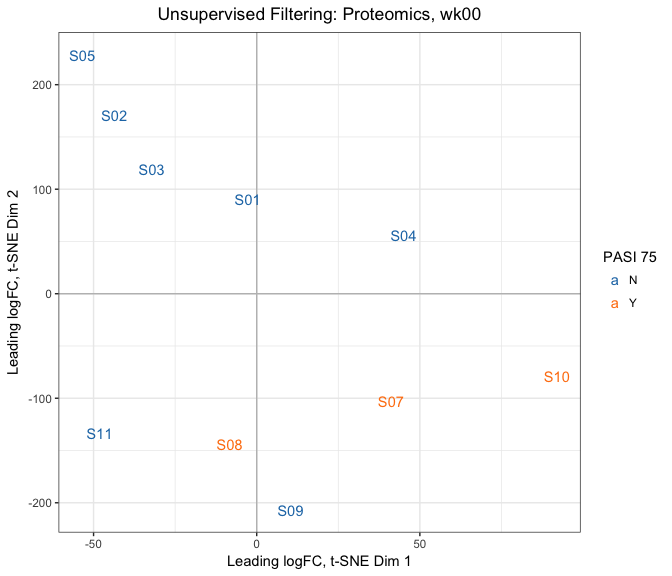
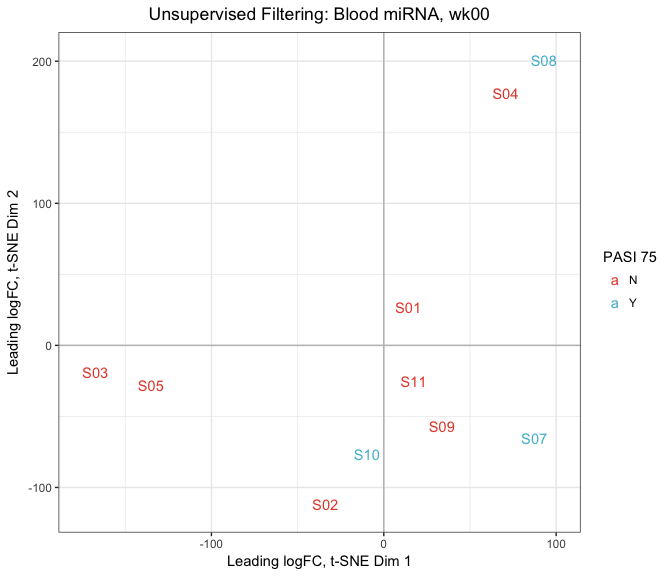
clust update

diff --git a/Scripts/Clusters.md b/Scripts/Clusters.md
@@ -9,7 +9,7 @@ Clusters
 -   [Mutual Information](#mutual-information)
 -   [Heatmap](#heatmap)
 
-All analysis was conducted in R version 3.3.3 using the following script. Computations were performed on a MacBook Pro with 16GB of RAM.
+All analysis was conducted in R version 3.4.0 using the following script. Computations were performed on a MacBook Pro with 16GB of RAM and an i7 quad-core processor.
 
 If you haven't already installed the `bioplotr` package, you'll need to do so to reproduce some of the figures below.
 
@@ -18,15 +18,12 @@ If you haven't already installed the `bioplotr` package, you'll need to do so to
 devtools::install_github('dswatson/bioplotr')
 
 # Load libraries, set seed
-library(data.table)
-library(bioplotr)
 library(limma)
+library(edgeR)
+library(bioplotr)
 library(Rtsne)
 library(cluster)
 library(infotheo)
-library(RColorBrewer)
-library(ggsci)
-library(NMF)
 library(dplyr)
 set.seed(123)
 ```
@@ -34,26 +31,26 @@ set.seed(123)
 Overview
 ========
 
-Once data have been modelled (see [Response]()), we use the outputs of our differential expression analysis to perform supervised and unsupervised clustering on baseline samples in each tissue across all platforms. Our approach is as follows. First, we filter out the bottom half of probes, either by association with biologic response (if supervised) or by leading fold change (if unsupervised). Next, we project the data in two dimensions using *t*-distributed stochastic neighbour embedding (t-SNE) ([van der Maaten & Hinton, 2008](http://www.jmlr.org/papers/volume9/vandermaaten08a/vandermaaten08a.pdf)). Finally, we cluster the samples using *k*-medoids, also known as the PAM algorithm ([Kaufman & Rousseeuw, 1990](https://books.google.co.uk/books/about/Finding_Groups_in_Data.html?id=yS0nAQAAIAAJ)).
+Once data have been modelled (see [Response](https://github.com/dswatson/PSORT/blob/master/Scripts/Response.md)), we use the outputs of our differential expression analysis to perform supervised and unsupervised clustering on baseline samples in each tissue across all platforms. Our approach is as follows. First, we filter out the bottom half of probes, either by association with biologic response (if supervised) or by leading fold change (if unsupervised). Next, we project the data in two dimensions using *t*-distributed stochastic neighbour embedding (t-SNE) ([van der Maaten & Hinton, 2008](http://www.jmlr.org/papers/volume9/vandermaaten08a/vandermaaten08a.pdf)). Finally, we cluster the samples using *k*-medoids, also known as the PAM algorithm ([Kaufman & Rousseeuw, 1990](https://books.google.co.uk/books/about/Finding_Groups_in_Data.html?id=yS0nAQAAIAAJ)).
 
-Ideally, optimal cluster number *k* would be established via a resampling procedure such as consensus clustering ([Monti et al., 2003](https://pdfs.semanticscholar.org/1f29/553ecbaa388b6be3402bc7af28178f5e24ef.pdf)). However, given our limited sample size, we chose to fix *k* = 2 and test for cluster concordance with clinical outcomes. For simplicity's sake, we will work through a single example here. A complete analysis loop that executes all clustering steps in parallel may be found in this repository's accompanying Clusters.R script.
+Ideally, optimal cluster number *k* would be established via a resampling procedure such as consensus clustering ([Monti et al., 2003](https://pdfs.semanticscholar.org/1f29/553ecbaa388b6be3402bc7af28178f5e24ef.pdf)). However, given our limited sample size, we choose to fix *k* = 2 and test for cluster concordance with clinical outcomes. For simplicity's sake, we work through a single example here using baseline blood miRNA data. A complete analysis loop that executes all clustering steps in parallel may be found in this repository's accompanying [Clusters.R](https://github.com/dswatson/PSORT/blob/master/Scripts/Clusters.R) script.
 
 Load, Prepare Data
 ==================
 
 ``` r
 # Import data
-mat <- readRDS('./Data/mat_prot.rds')            # Voom transformed counts
-fit <- readRDS('./Data/fit_prot.rds')            # Limma model object
-clin <- read.csv('./Data/Clinical.csv') %>%      # Clinical data
-  distinct(Subject, DeltaPASI, PASI_75)
+mat <- readRDS('./Data/miRNA_RawCounts.rds')     # Raw miRNA counts
+clin <- read.csv('./Data/Clin_Baseline.csv')     # Clinical data
 
-# Restrict focus to baseline samples
-mat <- mat[, grep('wk00', colnames(mat))]
+# Restrict focus to baseline blood samples
+mat <- mat[, grepl('wk00', colnames(mat))]
 colnames(mat) <- gsub('_wk00', '', colnames(mat))
 
-# Median centre the data
-mat <- sweep(mat, 1, apply(mat, 1, median))
+# Remove underexpressed probes, normalize matrix
+keep <- rowSums(cpm(mat) > 1) >= 3
+mat <- DGEList(mat[keep, ])
+mat <- calcNormFactors(mat)
 
 # Restrict focus to top half of probes
 n_probes <- round(0.5 * nrow(mat))
@@ -62,23 +59,49 @@ n_probes <- round(0.5 * nrow(mat))
 Filtering
 =========
 
-This is where supervised and unsupervised approaches diverge. For the former, we simply take the top half of all probes as ranked by *p*-value of the relevant differential expression test.
+This is where supervised and unsupervised approaches diverge. For the former, we simply take the top half of all probes as ranked by *p*-value of the relevant differential expression test. To recreate our [Response](https://github.com/dswatson/PSORT/blob/master/Scripts/Response.md) analysis, we winsorise the DeltaPASI distribution and regress it onto probewise counts following voom transformation [Law et al., 2014](https://genomebiology.biomedcentral.com/articles/10.1186/gb-2014-15-2-r29).
 
 ``` r
-top <- topTable(fit, coef = 'wk00.Response', number = Inf, sort.by = 'p')
-hits <- rownames(top)[seq_len(n_probes)]
+# Winsorise DeltaPASI distribution
+winsorise <- function(x, multiple = 2) {
+  y <- x - median(x)
+  lim <- mad(y, center = 0) * multiple
+  y[y > lim] <- lim
+  y[y < -lim] <- -lim
+  y <- y + median(x)
+  return(y)
+}
+clin <- clin %>% mutate(DeltaPASI = winsorise(DeltaPASI))
+
+# Build limma model
+des <- model.matrix(~ DeltaPASI, data = clin)
+v <- voom(mat, des)
+fit <- eBayes(lmFit(v, des))
+
+# Extract top half of probes by differential expression
+top <- topTable(fit, coef = 'DeltaPASI', number = n_probes, sort.by = 'p')
+hits <- rownames(top)
+```
+
+Distance matrices should be calculated based on centred data so as to emphasise relative differences across samples. We therefore subtract the median of each probe's samplewise distribution from all rows of the voom transformed counts.
+
+``` r
+# Median centre data
+mat <- sweep(v$E, 1, apply(v$E, 1, median))
+
+# Create supervised distance matrix
 dm_sup <- dist(t(mat[hits, ]))
 ```
 
-For unsupervised filtering, we use the leading log fold change method originally developed by the authors of the `limma` package to aid in multidimensional scaling plots ([Ritchie et al., 2015](https://www.ncbi.nlm.nih.gov/pubmed/25605792)). The key insight to this approach is that distance matrices need not be calculated using the same data for all comparisons. Instead, each pairwise distance may be based on the probes for which those two samples most differ. While the `limma` authors employ this method in conjunction with root-mean-square distance, we adopt the Euclidean distance metric here. In fact, the leading fold change filter is a powerful and general tool that can be applied with any distance measure.
+For unsupervised filtering, we use the leading log fold change method originally developed by the authors of the `limma` package to aid in multidimensional scaling plots ([Ritchie et al., 2015](https://www.ncbi.nlm.nih.gov/pubmed/25605792)). The key insight to this approach is that distance matrices need not be calculated using the same data for all comparisons. Instead, each pairwise distance may be based on the probes for which those two samples most differ. While the `limma` authors employ this method in conjunction with root-mean-square deviation, we adopt the Euclidean distance metric here. In fact, the leading fold change filter is a powerful and general tool that can be applied with any distance measure.
 
 ``` r
-# Create distance matrix
+# Create unsupervised distance matrix
 dm_unsup <- matrix(nrow = ncol(mat), ncol = ncol(mat))
 for (i in 2:ncol(mat)) {
   for (j in 1:(i - 1)) {
     # Find top most differentially expressed genes between samples i and j
-    hits <- order((mat[, i] - mat[, j])^2, decreasing = TRUE)[1:n_probes]
+    hits <- order((mat[, i] - mat[, j])^2, decreasing = TRUE)[seq_len(n_probes)]
     # Calculate the Euclidean distance between i and j using just those top genes
     dm_unsup[i, j] <- sqrt(sum((mat[hits, i] - mat[hits, j])^2))
   }
@@ -88,12 +111,12 @@ for (i in 2:ncol(mat)) {
 t-SNE
 =====
 
-We now perform t-SNE on the distance matrix. This algorithm embeds a high-dimensional manifold in just two dimensions with a focus on preserving local structure, which makes it especially attractive for clustering omic data. We can visualise the projection using the `plot_tsne` function from the `bioplotr` package.
+We now perform t-SNE on the respective distance matrices. This algorithm embeds a high-dimensional manifold in just two dimensions with a focus on preserving local structure, which makes it especially attractive for clustering omic data. We can visualise the projection using the `plot_tsne` function from the `bioplotr` package.
 
 ``` r
-plot_tsne(mat[hits, ], group = list('PASI 75' = clin$PASI_75), 
+plot_tsne(v$E[hits, ], group = list('PASI 75' = clin$PASI_75), 
           perplexity = 2, label = TRUE,
-          title = 'Supervised Filtering: Proteomics, wk00')
+          title = 'Supervised Filtering: Blood miRNA, wk00')
 ```
 
 <p align='center'>
@@ -101,16 +124,16 @@ plot_tsne(mat[hits, ], group = list('PASI 75' = clin$PASI_75),
 </p>
 
 ``` r
-plot_tsne(mat, group = list('PASI 75' = clin$PASI_75), 
+plot_tsne(v$E, group = list('PASI 75' = clin$PASI_75), 
           top = n_probes, perplexity = 2, label = TRUE,
-          title = 'Unsupervised Filtering: Proteomics, wk00')
+          title = 'Unsupervised Filtering: Blood miRNA, wk00')
 ```
 
 <p align='center'>
 <img src="Clusters_files/figure-markdown_github/tsne-2.png" style="display: block; margin: auto;" />
 </p>
 
-We find in both plots that responders clearly cluster together, although they appear to be quite close to samples S09 and S11 as well, who did not achieve PASI 75 over the course of the study.
+We find in the supervised plot that responders tend to fall in the top half of the figure, but they are not especially well segratated from nonresponders in this regard. More salient is the close clustering of subjects S03 and S05 on the one hand, and S04 and S08 on the other. The unsupervised t-SNE plot is somewhat similar, especially with regard to these couplings, although samples have been reconfigured in the subspace. It is likely that with *k* = 3 clusters, these two groupings would be nearly if not perfectly concordant; we have imposed a maximum cluster number of 2, however, which may result in different splits.
 
 Partitioning Around Medoids
 ===========================
@@ -141,22 +164,22 @@ table(supervised, unsupervised)
 
     ##           unsupervised
     ## supervised 1 2
-    ##          1 5 0
-    ##          2 0 5
+    ##          1 6 2
+    ##          2 2 0
 
-Evidently the two methods perfectly coincide. To measure the magnitude of this concordance and compare it with alternative clusterings, we calculate the [mutual information](https://en.wikipedia.org/wiki/Mutual_information) between the two groups in bits.
+Both groupings place the majority of their samples into the first group, although there is no agreement as to which samples belong to the minority cluster. To measure the magnitude of this concordance and compare it with alternative clusterings, we calculate the [mutual information](https://en.wikipedia.org/wiki/Mutual_information) between the two groups in bits.
 
 ``` r
 # Calculate the mutual information between clusterings
 mi <- mutinformation(supervised, unsupervised)
 
 # Convert from nats to bits
-(mi <- natstobits(mi))
+natstobits(mi)
 ```
 
-    ## [1] 1
+    ## [1] 0.07290559
 
-With *k* = 2, the maximal mutual information between groupings is 1 bit. Since these two clusterings are perfectly concordant, this result is unsurprising.
+With *k* = 2, the maximum possible mutual information between groupings is 1 bit. We can therefore interpret this number as a percentage and say there is approximately 7.3% concordance between supervised and unsupervised clusterings of blood mRNA samples.
 
 Heatmap
 =======
@@ -165,24 +188,16 @@ These cluster assignments can be visualised along with clinical information as a
 
 ``` r
 # Trim matrix
-top_quarter <- round(0.25 * nrow(mat)) 
-hits <- rownames(top)[seq_len(top_quarter)]
-mat <- mat[hits, ]
-
-# Prepare colour palettes
-rb <- colorRampPalette(rev(brewer.pal(10, 'RdBu')))(n = 256)
-greys <- colorRampPalette(brewer.pal(9, 'Greys'))(n = 256)
-d3 <- pal_d3()(6)
-cols <- list(greys, d3[1:2], d3[3:4], d3[5:6])
+top_25 <- round(0.25 * nrow(v$E))
+hits <- hits[seq_len(top_25)]
+mat <- v$E[hits, ]
 
 # Build heatmap
-aheatmap(mat, distfun = 'pearson', scale = 'row', col = rb, hclustfun = 'average',
-         main = paste0('Top 25% of Probes by Response:\n Proteomics, wk00'),
-         annCol = list('Delta PASI' = clin$DeltaPASI,
-                          'PASI 75' = clin$PASI_75,
-                       'Supervised' = as.factor(supervised),
-                     'Unsupervised' = as.factor(unsupervised)),
-         annColors = cols, border_color = 'black')
+plot_heatmap(mat, group = list('Supervised' = as.factor(supervised),
+                             'Unsupervised' = as.factor(unsupervised),
+                                  'PASI 75' = clin$PASI_75), 
+             covar = list('Delta PASI' = clin$DeltaPASI),
+             title = 'Top 25% of Probes by Response:\n Blood miRNA, wk00')
 ```
 
 <p align='center'>
